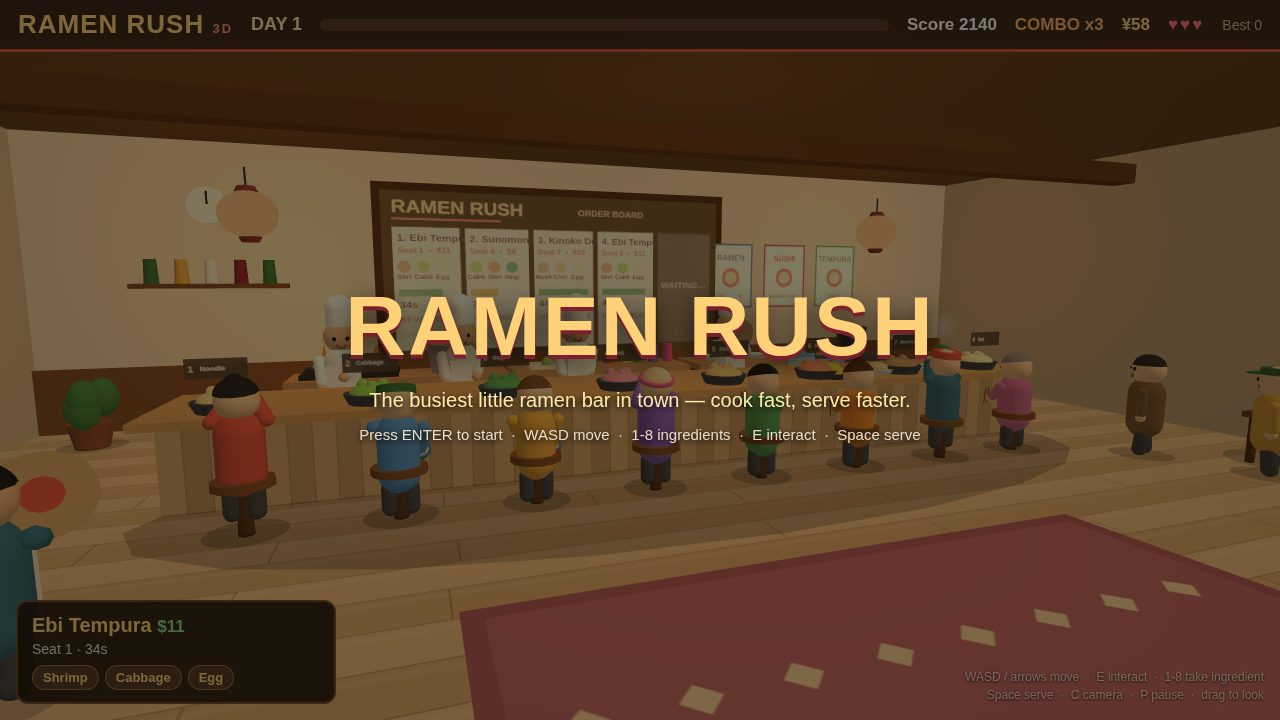
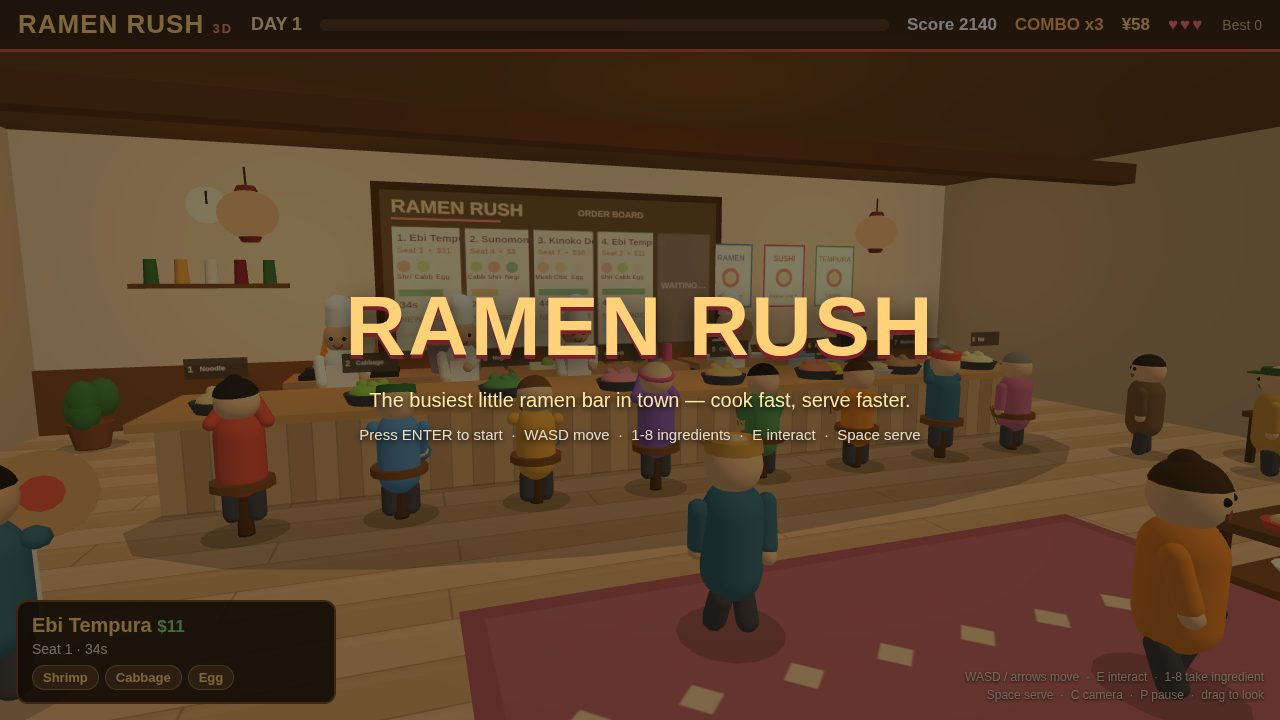
RAMEN RUSH 3D: fill the red carpet with walking customers + side table

diff --git a/game/src/shots.js b/game/src/shots.js
@@ -15,7 +15,7 @@
   RR.SHOTS = SHOTS;
 
   function setPeople(states) {
-    // states: {player, chefs:[...], customers:[...], queue:[...], waiter, diners:[...]}
+    // states: {player, chefs:[...], customers:[...], queue:[...], waiter, diners:[...], walkers:[...]}
     const P = RR.people;
     if (!P) return;
     if (states.player) RR.setPersonState(P.player, states.player);
@@ -24,6 +24,7 @@
     (states.queue || []).forEach((s, i) => { if (P.queue[i]) RR.setPersonState(P.queue[i], s); });
     if (states.waiter && P.waiter) RR.setPersonState(P.waiter, states.waiter);
     (states.diners || []).forEach((s, i) => { if (P.diners && P.diners[i]) RR.setPersonState(P.diners[i], s); });
+    (states.walkers || []).forEach((s, i) => { if (P.walkers && P.walkers[i]) RR.setPersonState(P.walkers[i], s); });
   }
 
   function seedTickets(n, states) {
@@ -67,6 +68,7 @@
         queue: ['queue', 'queue', 'queue', 'queue', 'queue', 'queue'],
         waiter: 'carrying',
         diners: ['eating', 'eating'],
+        walkers: ['walk', 'walk'],
       });
     } else if (n === 2) {
       // Side close-up: stations at work, dish mid-assembly on the plating bar
@@ -81,6 +83,7 @@
         queue: ['queue', 'queue', 'queue', 'queue', 'queue', 'queue'],
         waiter: 'carrying',
         diners: ['eating', 'eating'],
+        walkers: ['walk', 'walk'],
       });
       if (P) { P.player.position.x = -1.0; }
     } else if (n === 3) {
@@ -97,6 +100,7 @@
         queue: ['queue', 'queue', 'queue', 'queue', 'queue', 'queue'],
         waiter: 'carrying',
         diners: ['eating', 'eating'],
+        walkers: ['walk', 'walk'],
       });
       if (P) { P.player.position.x = 1.8; }
     } else {
@@ -112,6 +116,7 @@
         queue: ['queue', 'queue', 'queue', 'queue', 'queue', 'queue'],
         waiter: 'carrying',
         diners: ['happy', 'eating'],
+        walkers: ['walk', 'walk'],
       });
       if (P) { P.player.position.x = 2.6; P.player.position.z = -0.9; }
     }

diff --git a/game/src/world.js b/game/src/world.js
@@ -442,6 +442,32 @@
     rug.rotation.x = -Math.PI / 2;
     rug.position.set(0, 0.025, 5.6);
     scene.add(rug);
+
+    // ---- serving cart with bowls on the red carpet (right edge) ----
+    // two shelves + wheels + bowls, following the side-table pattern above
+    const cart = new T.Group();
+    cart.position.set(2.7, 0, 6.3);
+    const cTop = new T.Mesh(new T.BoxGeometry(1.1, 0.07, 0.7), lam(0x6b4423));
+    cTop.position.y = 0.78; cart.add(cTop);
+    const cLow = new T.Mesh(new T.BoxGeometry(1.0, 0.06, 0.6), lam(0x7a4a22));
+    cLow.position.y = 0.38; cart.add(cLow);
+    [[-0.48, -0.28], [0.48, -0.28], [-0.48, 0.28], [0.48, 0.28]].forEach(([dx, dz]) => {
+      const cLeg = new T.Mesh(new T.BoxGeometry(0.06, 0.78, 0.06), lam(0x4a2c14));
+      cLeg.position.set(dx, 0.39, dz); cart.add(cLeg);
+      const wheel = new T.Mesh(new T.SphereGeometry(0.07, 8, 6), lam(0x222222));
+      wheel.position.set(dx, 0.07, dz); cart.add(wheel);
+    });
+    // bowls of noodles on the top shelf, a plate on the lower shelf
+    [[-0.3, 0.82], [0.3, 0.82]].forEach(([dx, y]) => {
+      const cBowl = new T.Mesh(new T.CylinderGeometry(0.16, 0.11, 0.1, 12), lam(0xd94f3d));
+      cBowl.position.set(dx, y, 0); cart.add(cBowl);
+      const cFood = new T.Mesh(new T.SphereGeometry(0.11, 10, 6), lam(0xf2d492));
+      cFood.position.set(dx, y + 0.05, 0); cFood.scale.y = 0.5; cart.add(cFood);
+    });
+    const cPlate = new T.Mesh(new T.CylinderGeometry(0.2, 0.15, 0.06, 14), lam(0xf5f2ea));
+    cPlate.position.set(0, 0.44, 0); cart.add(cPlate);
+    scene.add(cart);
+    shadowBlob(2.7, 6.3, 0.8, scene);
   }
 
   function makeSteam(scene, x, y, z) {

diff --git a/game/src/main.js b/game/src/main.js
@@ -132,6 +132,23 @@
       scene.add(d);
       P.diners.push(d);
     });
+
+    // two customers crossing the red carpet, mid-stride (walk state swings
+    // legs + arms in place, so they read as walking without drifting off the rug)
+    P.walkers = [];
+    const walkerLooks = [
+      { shirt: 0x2e6b8a, hairStyle: 'cap', capColor: 0xd9a441 },
+      { shirt: 0xe88a2e, hairStyle: 'bun', hair: 0x3a2a1a },
+    ];
+    RR.CARPET_WALKERS.forEach((s, i) => {
+      const w = RR.makePerson(Object.assign({ role: 'customer' }, walkerLooks[i]));
+      w.position.set(s.x, 0, s.z);
+      w.rotation.y = s.rotY;
+      RR.setPersonState(w, 'walk');
+      scene.add(w);
+      P.walkers.push(w);
+      addShadow(w, 0.4);
+    });
   }
 
   function addShadow(person, r) {
@@ -332,6 +349,7 @@
         P.queue.forEach((c) => RR.animatePerson(c, elapsed, dt));
         if (P.waiter) RR.animatePerson(P.waiter, elapsed, dt);
         if (P.diners) P.diners.forEach((c) => RR.animatePerson(c, elapsed, dt));
+        if (P.walkers) P.walkers.forEach((c) => RR.animatePerson(c, elapsed, dt));
       }
       updateEffects(dt);
       movePlayer(dt);

diff --git a/game/src/config.js b/game/src/config.js
@@ -65,4 +65,12 @@
     { x: 6.2, z: 6.9 },
     { x: 7.6, z: 7.6 },
   ];
+
+  // two customers crossing the red carpet (rug spans x -3.25..3.25, z 4.0..7.2):
+  // one walking in toward the counter, one just arrived from the entrance.
+  // rotY: Math.PI faces the kitchen (-z); ~0.35 faces the camera/entrance (+z).
+  RR.CARPET_WALKERS = [
+    { x: -1.4, z: 5.0, rotY: Math.PI },
+    { x: 0.9, z: 6.5, rotY: 0.35 },
+  ];
 })();
